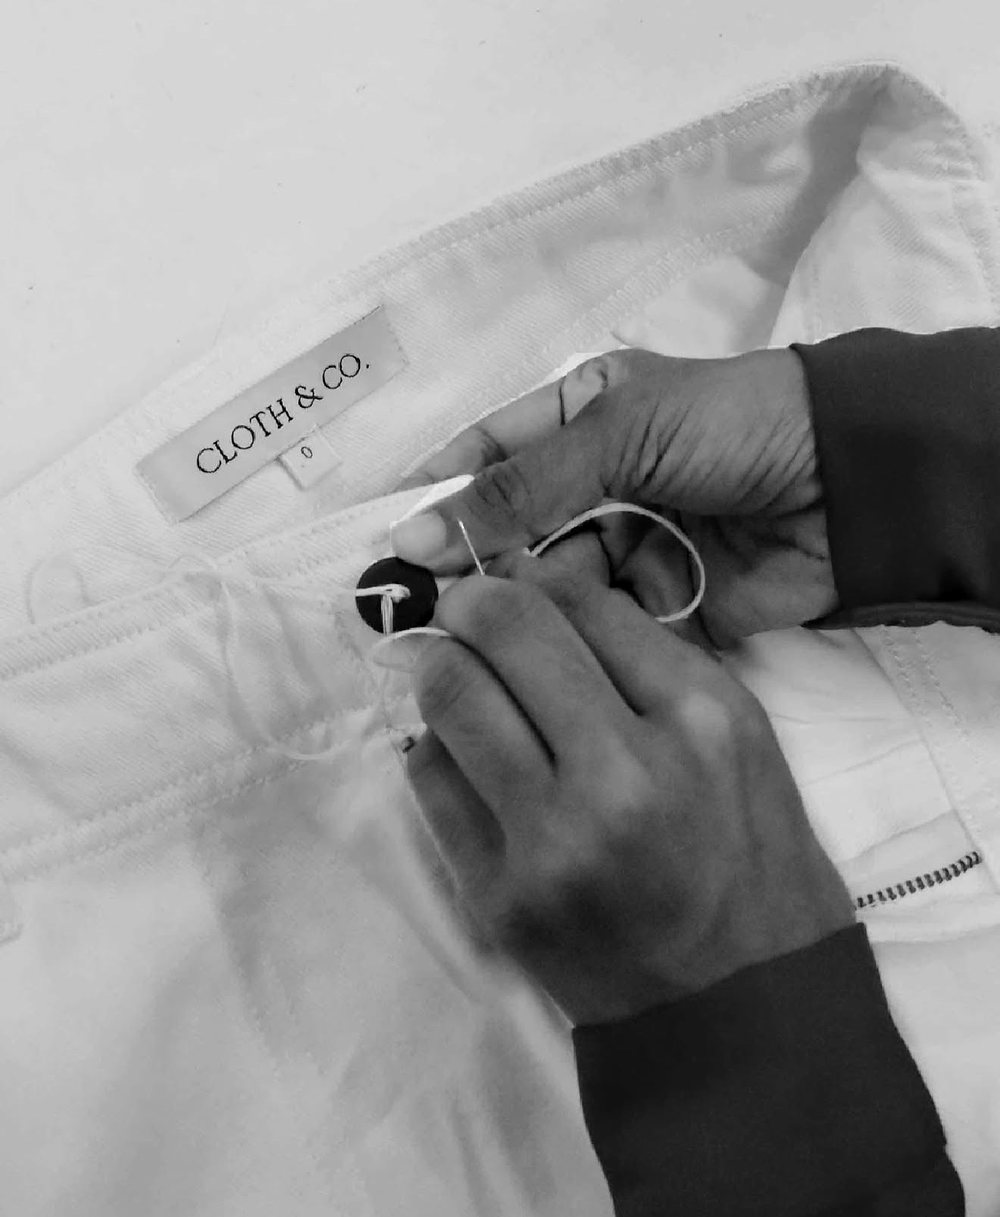
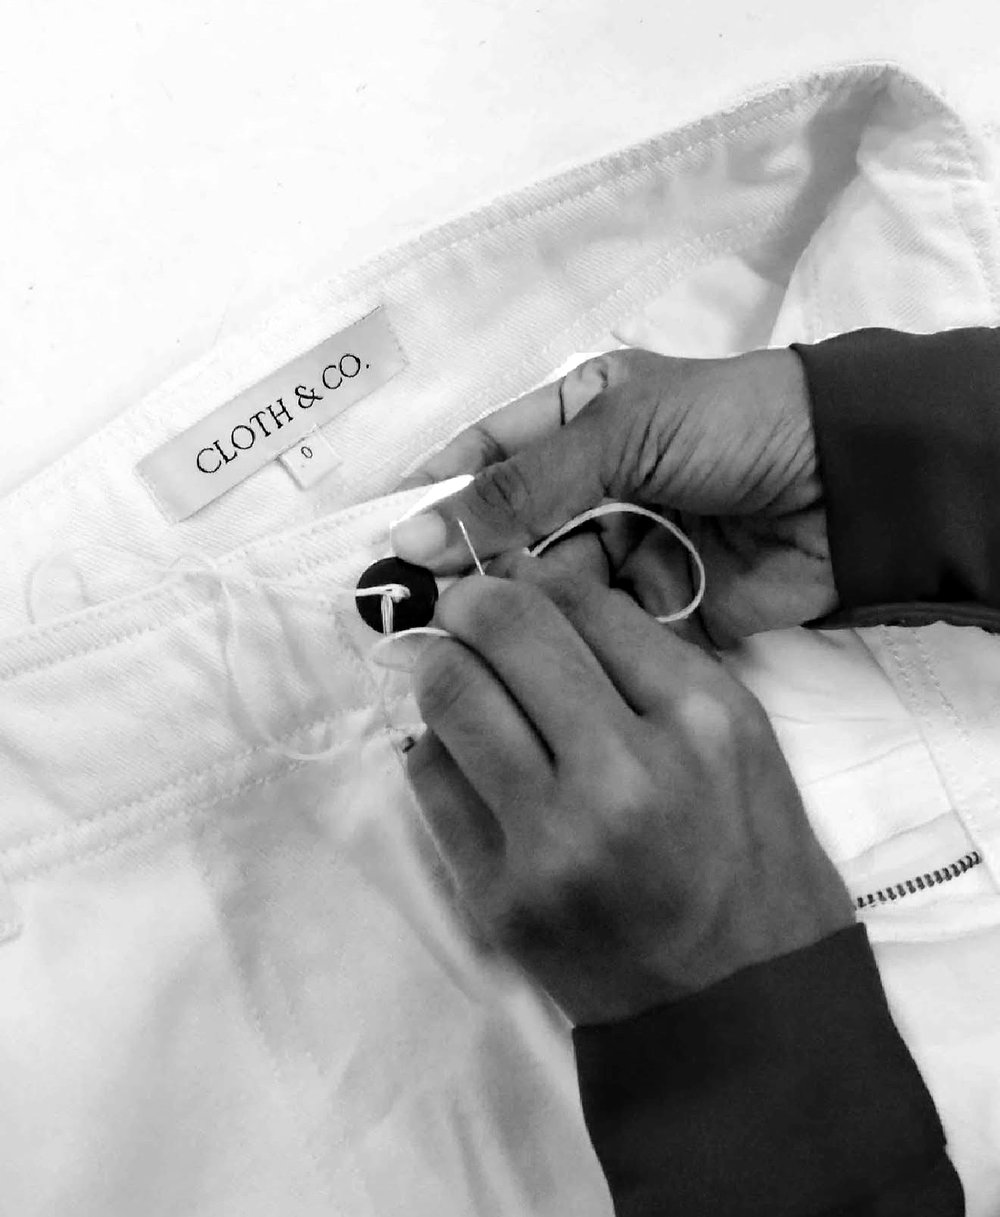
Stop crushing shadows in the factory photography
Auditing the factory set for edge artifacts turned up a worse problem I had
introduced myself: the monochrome conversion applied PIL's Contrast enhancer at
1.08, which subtracts a fraction of the image mean and so pushes anything below
roughly 9 straight to zero. It was clipping 13-16% of pixels to pure black on
the darker frames — real shadow detail, gone.

Isolated to that one step: the source clips 0.16%, plain mono clips 0.16%,
contrast x1.04 already clips 7.7%, x1.08 clips 13.4%. Resize and JPEG encoding
were innocent.

Replaced with autocontrast at cutoff 0.2, which keeps most of the contrast gain
(std 78.7 against 81.1) at well under half the clipping, and normalises exposure
across a set shot under inconsistent light.

  fac-fitting  16.1% -> 3.4%      fac-hero  13.4% -> 7.4%
  fac-hands     6.6% -> 3.4%      fac-team   2.8% -> 0.6%

fac-hero remains highest at 7.4% because the frame is genuinely dim.

All 11 reprocessed from source, so the earlier edge crops are preserved rather
than reapplied to an already-processed file.

diff --git a/about.html b/about.html
@@ -129,7 +129,7 @@
 </section>
 
 <section class="wrap">
-  <div data-rise><picture><source srcset="assets/img/fac-team.webp" type="image/webp"><img src="assets/img/fac-team.jpg" alt="The team at the Women Fiber to Fashion unit" width="1200" height="1564" sizes="100vw" loading="lazy" decoding="async"></picture></div>
+  <div data-rise><picture><source srcset="assets/img/fac-team.webp" type="image/webp"><img src="assets/img/fac-team.jpg" alt="The team at the Women Fiber to Fashion unit" width="1200" height="1565" sizes="100vw" loading="lazy" decoding="async"></picture></div>
 </section>
 
 <section class="section section--tint">
